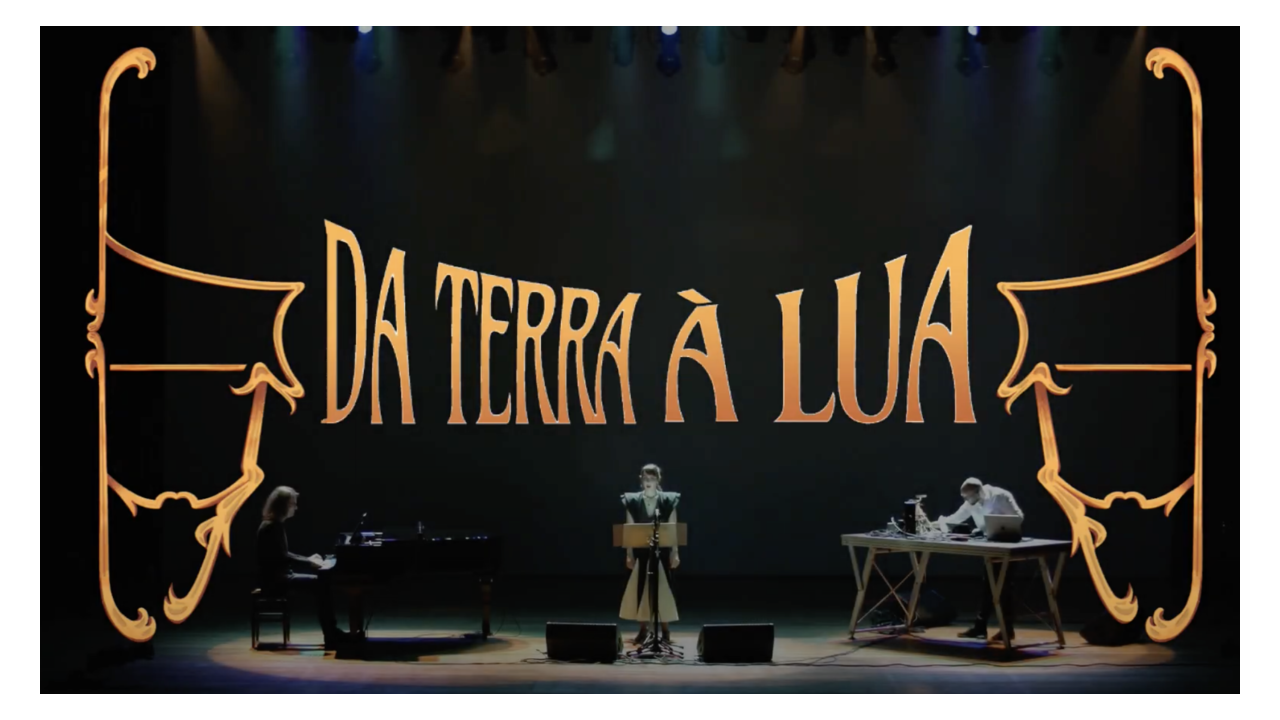
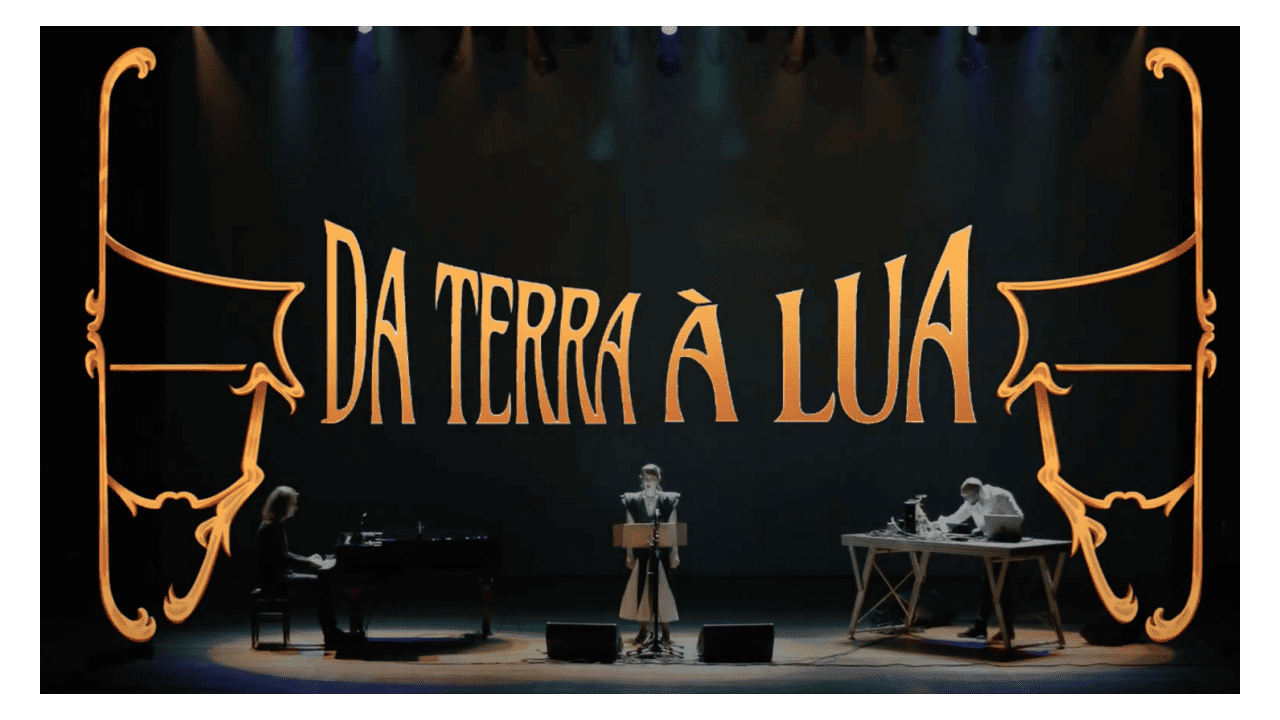
update_fig_2

diff --git a/content/works/da_terra_lua/index.md b/content/works/da_terra_lua/index.md
@@ -4,7 +4,7 @@ date: 2025-02-06
 tags: ["live electronics","classical music","performance"]
 author: ["Nívea Freitas", "Felipe Romagna", "Wagner Sander"]
 cover:
-    image: "da_terra_a_lua.jpg"
+    image: "da_terra_a_lua.png"
     alt: "Vizualisation of an inner hedgehog"
     relative: true
 
